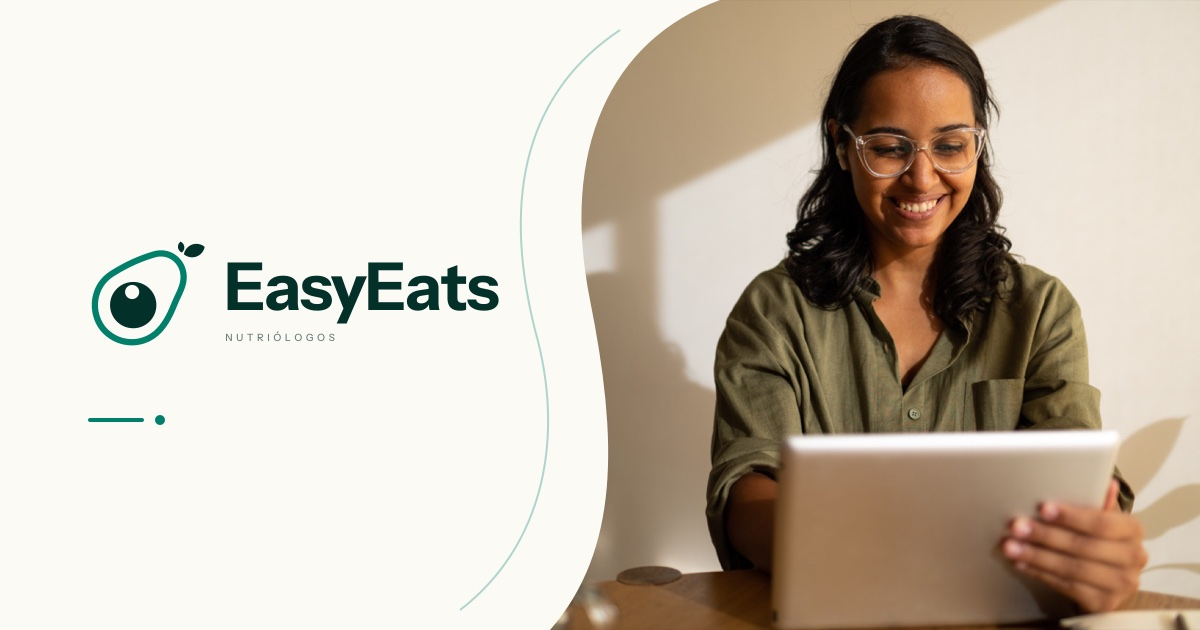
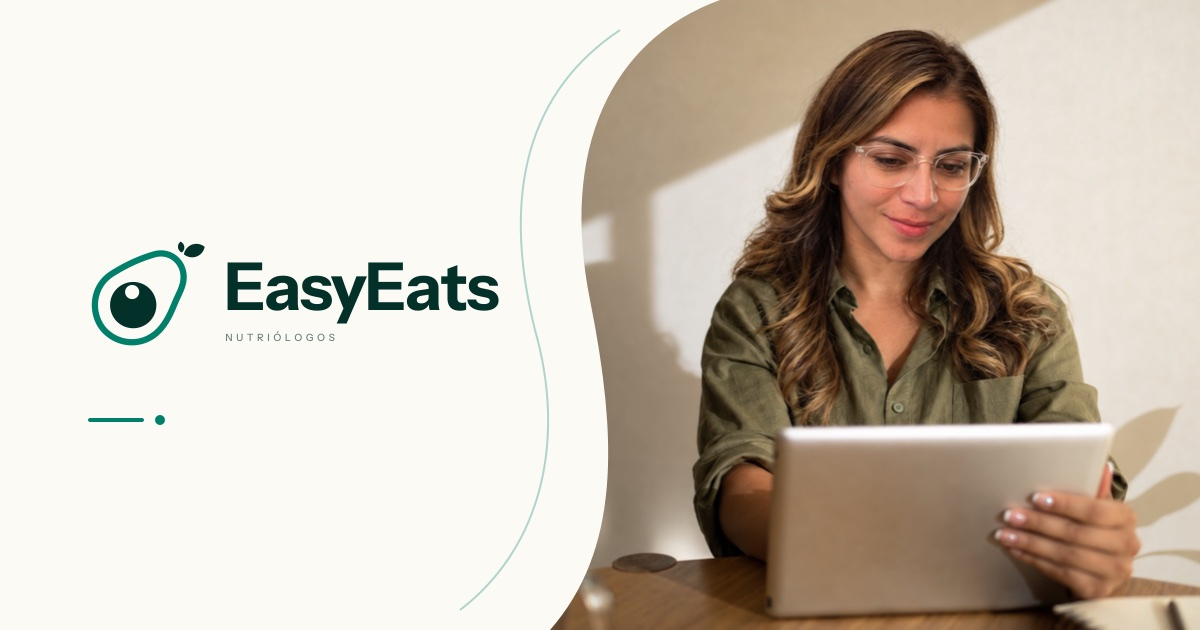
Add files via upload

Changed region(s): [[0.4625, 0.0, 1.0, 1.0], [0.4625, 0.3016, 0.555, 0.5127], [0.555, 0.2714, 0.5858, 0.3016]]

diff --git a/portal.css b/portal.css
@@ -53,8 +53,7 @@
 /* Fotografías: fondos decorativos. Si el archivo aún no existe, queda el degradado papel-verde. */
 .login-visual{position:relative;overflow:hidden;animation:loginFade .9s ease both .1s}
 .login-photo{position:absolute;background-color:#e6eee6;background-size:cover;background-position:center;transition:transform .6s ease}
-.login-photo-main{inset:0 0 24% 5%;border-radius:58% 0 0 42%/46% 0 0 54%;background-image:url(login-easyway-principal.jpg),linear-gradient(150deg,#dde8df,#eef2e8 60%,#e2ebe4);background-position:64% 40%}
-.login-photo-secondary{right:0;bottom:0;width:66%;height:40%;border-radius:62% 0 0 0/78% 0 0 0;box-shadow:-10px -10px 0 var(--paper);background-image:url(login-easyway-secundaria.jpg),linear-gradient(200deg,#e4ece3,#f1f0e6);background-position:50% 38%}
+.login-photo-main{inset:0 0 0 5%;border-radius:58% 0 0 42%/40% 0 0 60%;background-image:url(login-easyway-principal.jpg),linear-gradient(150deg,#dde8df,#eef2e8 60%,#e2ebe4);background-position:62% 35%}
 .login-visual:hover .login-photo-main{transform:scale(1.01)}
 .login-curve{position:absolute;z-index:1;left:49%;top:6%;width:25%;height:88%;pointer-events:none;overflow:visible}
 .login-curve path{fill:none;stroke:var(--green);stroke-width:1.5;opacity:.28;vector-effect:non-scaling-stroke}
@@ -71,7 +70,8 @@
 }
 @media (max-width:760px){
   .login-top{height:64px;padding:12px 20px}
-  .login-top .brand img{width:108px}
+  /* En celular "NUTRIÓLOGOS" se vuelve ilegible: se oculta recortando solo esa franja; el SVG oficial no se modifica. */
+  .login-top .brand img{width:150px;clip-path:polygon(0 0,100% 0,100% 70%,31% 70%,31% 100%,0 100%)}
   .login-method,.login-curve,.login-photo-secondary{display:none}
   .login-method-short{display:block}
   .login-wrap{grid-template-columns:1fr;grid-template-rows:auto 1fr}

diff --git a/index.html b/index.html
@@ -20,7 +20,7 @@
 <p class="login-help">¿Necesitas ayuda? Escríbenos por <a href="https://wa.me/529994713282?text=Hola%2C%20necesito%20ayuda%20para%20entrar%20a%20Mi%20EasyWay." target="_blank" rel="noopener noreferrer">WhatsApp</a>.</p>
 </form>
 </section>
-<aside class="login-visual" aria-hidden="true"><div class="login-photo login-photo-main"></div><div class="login-photo login-photo-secondary"></div></aside>
+<aside class="login-visual" aria-hidden="true"><div class="login-photo login-photo-main"></div></aside>
 </main>
 </div>
 <dialog id="account-dialog" class="account-dialog" aria-labelledby="account-title">
